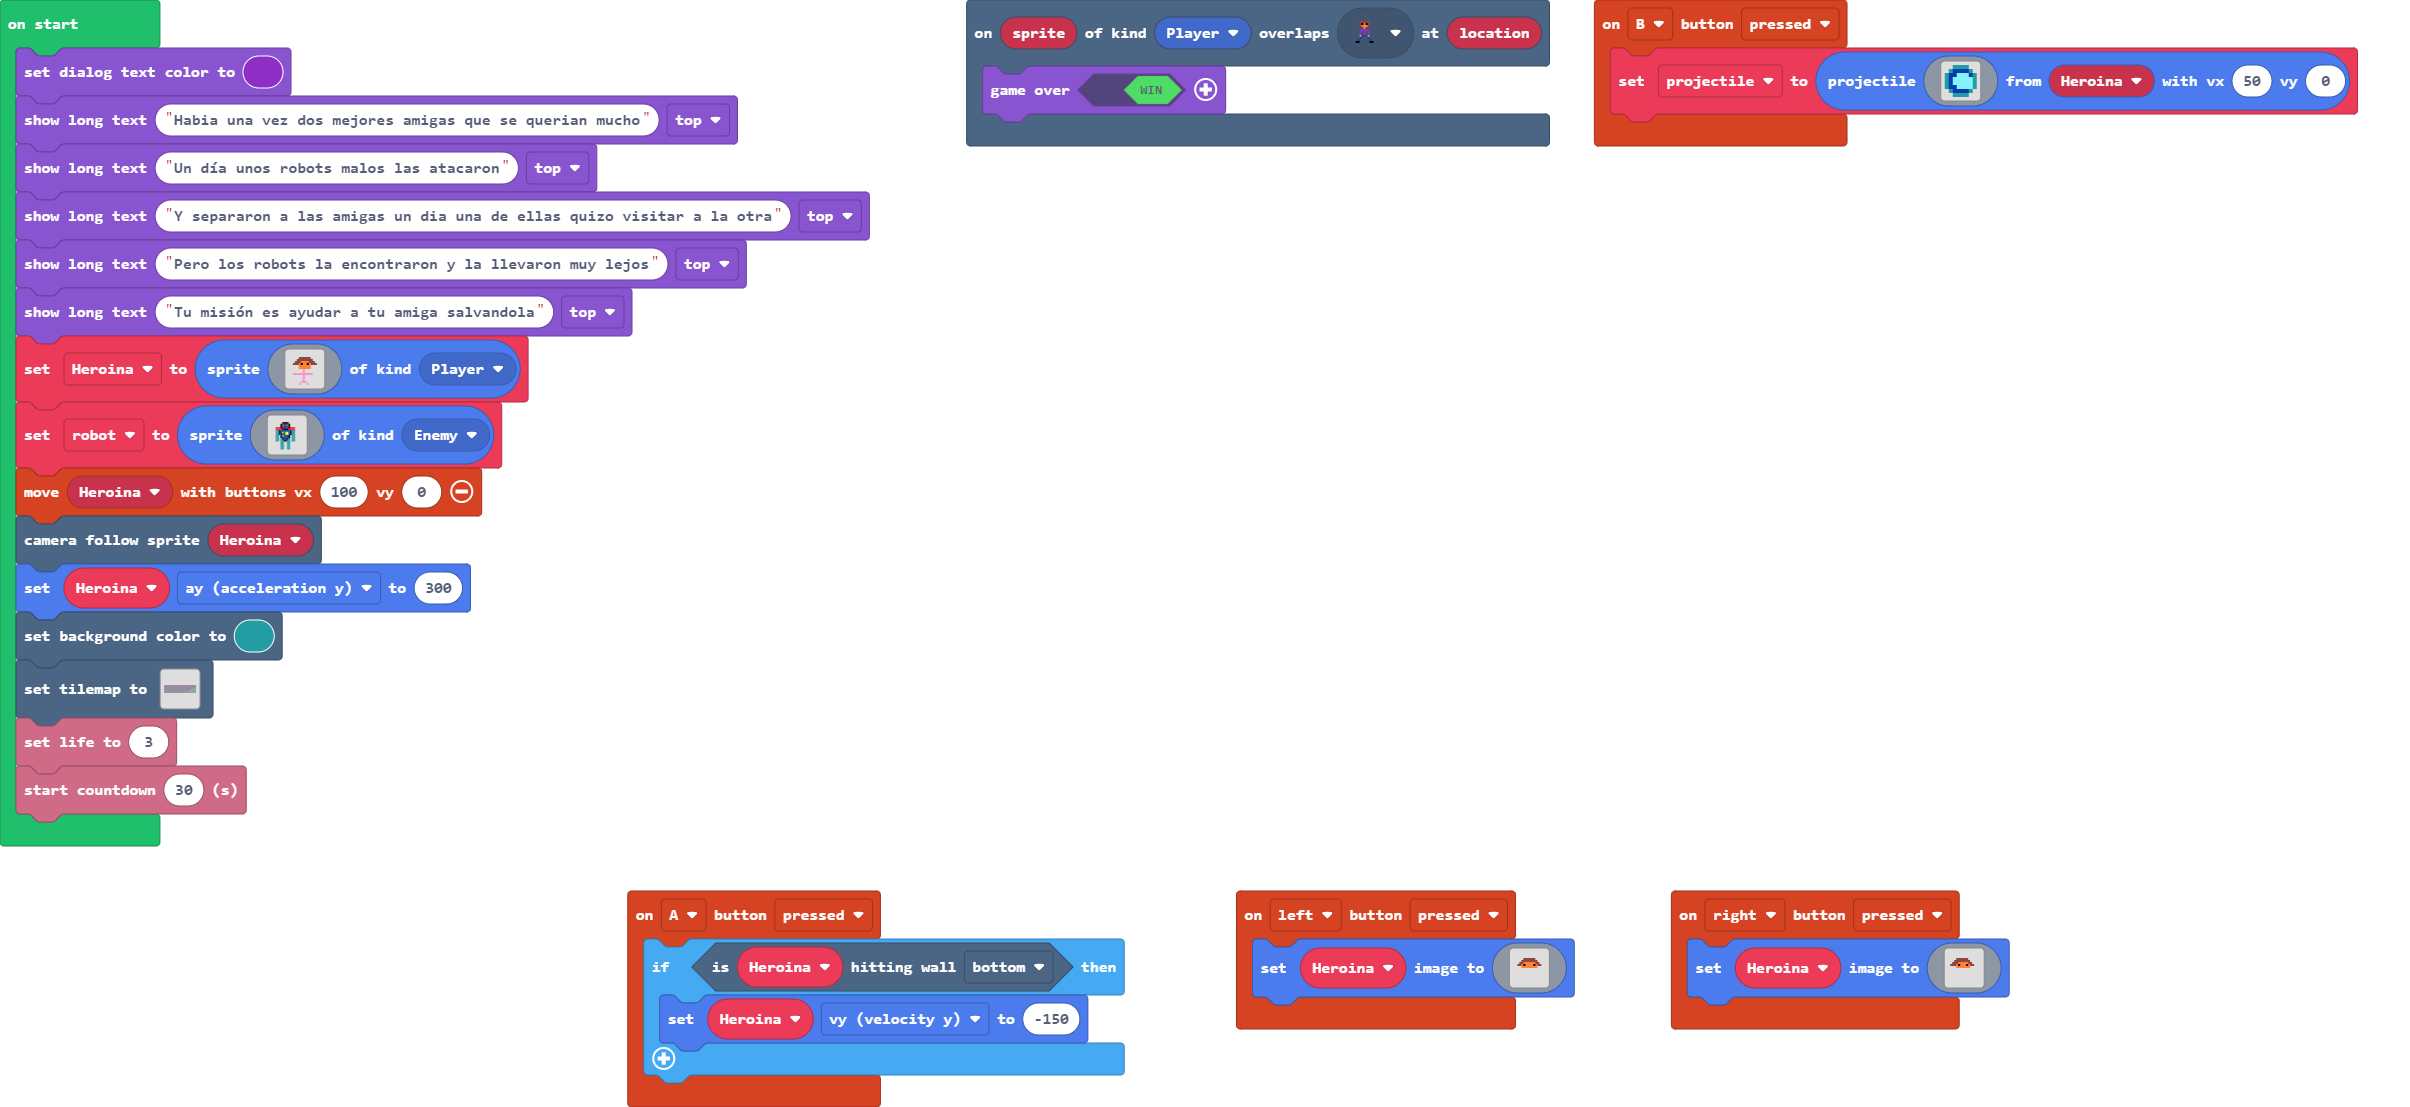
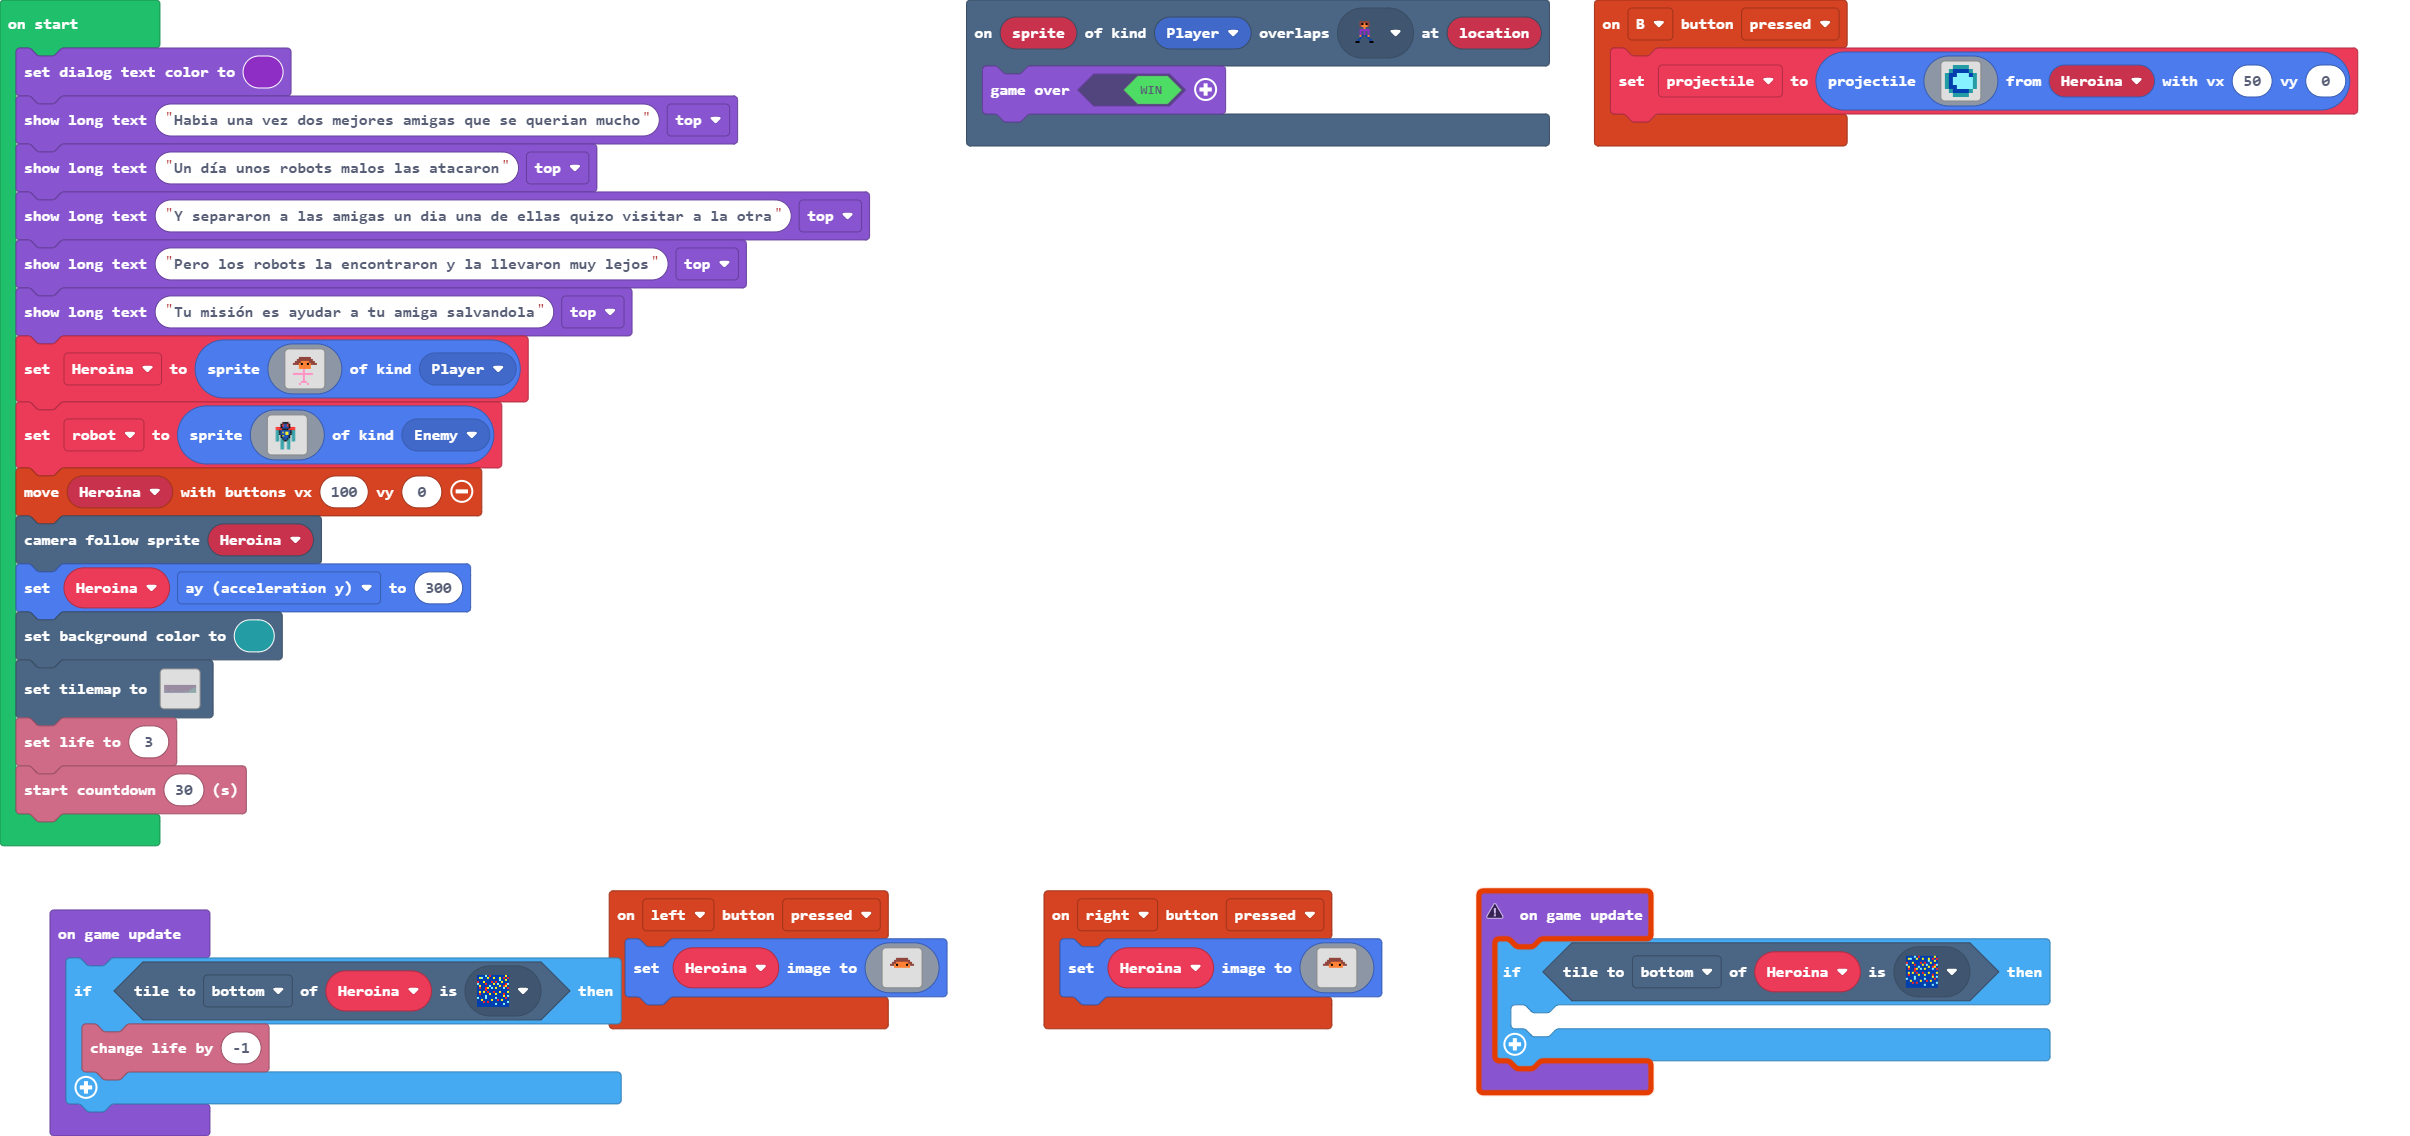
elimine un bloque

diff --git a/main.ts b/main.ts
@@ -16,11 +16,6 @@ controller.B.onEvent(ControllerButtonEvent.Pressed, function () {
         . . 6 6 6 6 . . 
         `, Heroina, 50, 0)
 })
-controller.A.onEvent(ControllerButtonEvent.Pressed, function () {
-    if (Heroina.isHittingTile(CollisionDirection.Bottom)) {
-        Heroina.vy = -150
-    }
-})
 controller.left.onEvent(ControllerButtonEvent.Pressed, function () {
     Heroina.setImage(img`
         . . . . . . . . . . . . . . . . 
@@ -135,7 +130,11 @@ info.setLife(3)
 info.startCountdown(30)
 game.onUpdate(function () {
     if (Heroina.tileKindAt(TileDirection.Bottom, myTiles.tile4)) {
-        Heroina.setPosition(10, 0)
         info.changeLifeBy(-1)
+    }
+})
+game.onUpdate(function () {
+    if (Heroina.tileKindAt(TileDirection.Bottom, myTiles.tile4)) {
+    	
     }
 })
